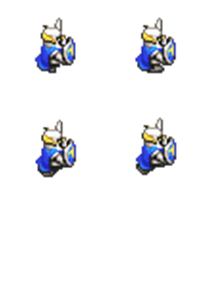
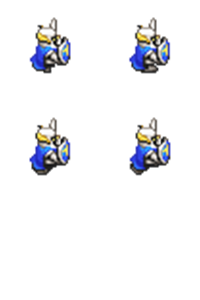
Added 15 new enemies, fixed animation, updated map
Added 7 new Horizontal and 8 new Vertical enemies, fixed "Enemy_Right_Movement", updated map

diff --git a/core/src/Play/InsideStart.java b/core/src/Play/InsideStart.java
@@ -92,10 +92,25 @@ public class InsideStart implements Screen {
     enemiesPosChange enPosChange = new enemiesPosChange();
     enemiesNegChange enNegChange = new enemiesNegChange();
     enemyH1 enH1 = new enemyH1();
+    enemyH2 enH2 = new enemyH2();
+    enemyH3 enH3 = new enemyH3();
+    enemyH4 enH4 = new enemyH4();
+    enemyH5 enH5 = new enemyH5();
+    enemyH6 enH6 = new enemyH6();
+    enemyH7 enH7 = new enemyH7();
+    enemyH8 enH8 = new enemyH8();
 
     //Enemies Vertical moves
     ArrayList<enemiesVerticalMovement> enemies2;
     enemyV1 enV1 = new enemyV1();
+    enemyV2 enV2 = new enemyV2();
+    enemyV3 enV3 = new enemyV3();
+    enemyV4 enV4 = new enemyV4();
+    enemyV5 enV5 = new enemyV5();
+    enemyV6 enV6 = new enemyV6();
+    enemyV7 enV7 = new enemyV7();
+    enemyV8 enV8 = new enemyV8();
+    enemyV9 enV9 = new enemyV9();
 
     //obstacle coordinate change
     obstacleCordinateChangeXneg negChange = new obstacleCordinateChangeXneg();
@@ -120,12 +135,29 @@ public class InsideStart implements Screen {
         enemies2 = new ArrayList<enemiesVerticalMovement>();
 
         enemies.add(new enemiesHorizontalMovement(enH1.posX, enH1.posY, enH1.limX1, enH1.limX2));
+        enemies.add(new enemiesHorizontalMovement(enH2.posX, enH2.posY, enH2.limX1, enH2.limX2));
+        enemies.add(new enemiesHorizontalMovement(enH3.posX, enH3.posY, enH3.limX1, enH3.limX2));
+        enemies.add(new enemiesHorizontalMovement(enH4.posX, enH4.posY, enH4.limX1, enH4.limX2));
+        enemies.add(new enemiesHorizontalMovement(enH5.posX, enH5.posY, enH5.limX1, enH5.limX2));
+        enemies.add(new enemiesHorizontalMovement(enH6.posX, enH6.posY, enH6.limX1, enH6.limX2));
+        enemies.add(new enemiesHorizontalMovement(enH7.posX, enH7.posY, enH7.limX1, enH7.limX2));
+        enemies.add(new enemiesHorizontalMovement(enH8.posX, enH8.posY, enH8.limX1, enH8.limX2));
+
+
         enemies2.add(new enemiesVerticalMovement(enV1.posX, enV1.posY, enV1.limY1, enV1.limY2));
+        enemies2.add(new enemiesVerticalMovement(enV2.posX, enV2.posY, enV2.limY1, enV2.limY2));
+        enemies2.add(new enemiesVerticalMovement(enV3.posX, enV3.posY, enV3.limY1, enV3.limY2));
+        enemies2.add(new enemiesVerticalMovement(enV4.posX, enV4.posY, enV4.limY1, enV4.limY2));
+        enemies2.add(new enemiesVerticalMovement(enV5.posX, enV5.posY, enV5.limY1, enV5.limY2));
+        enemies2.add(new enemiesVerticalMovement(enV6.posX, enV6.posY, enV6.limY1, enV6.limY2));
+        enemies2.add(new enemiesVerticalMovement(enV7.posX, enV7.posY, enV7.limY1, enV7.limY2));
+        enemies2.add(new enemiesVerticalMovement(enV8.posX, enV8.posY, enV8.limY1, enV8.limY2));
+        enemies2.add(new enemiesVerticalMovement(enV9.posX, enV9.posY, enV9.limY1, enV9.limY2));
     }
 
     @Override
     public void show() {
-        gameMap=new Texture("ultraFinalMap.png");
+        gameMap=new Texture("FM.png");
     }
 
     @Override

diff --git a/core/src/EnemyHorizontalMovesCollections/enemyH4.java b/core/src/EnemyHorizontalMovesCollections/enemyH4.java
@@ -1,0 +1,9 @@
+package EnemyHorizontalMovesCollections;
+
+public class enemyH4 {
+
+    public float posX=1100;
+    public float posY=654;
+    public float limX1=1078;
+    public float limX2=1290;
+}

diff --git a/core/src/EnemyHorizontalMovesCollections/enemyH6.java b/core/src/EnemyHorizontalMovesCollections/enemyH6.java
@@ -1,0 +1,8 @@
+package EnemyHorizontalMovesCollections;
+
+public class enemyH6 {
+    public float posX=1500;
+    public float posY=635;
+    public float limX1=1402;
+    public float limX2=1670;
+}

diff --git a/core/src/EnemyHorizontalMovesCollections/enemyH7.java b/core/src/EnemyHorizontalMovesCollections/enemyH7.java
@@ -1,0 +1,8 @@
+package EnemyHorizontalMovesCollections;
+
+public class enemyH7 {
+    public float posX=1600;
+    public float posY=410;
+    public float limX1=1550;
+    public float limX2=1695;
+}

diff --git a/core/src/EnemyHorizontalMovesCollections/enemyH5.java b/core/src/EnemyHorizontalMovesCollections/enemyH5.java
@@ -1,0 +1,8 @@
+package EnemyHorizontalMovesCollections;
+
+public class enemyH5 {
+    public float posX=1050;
+    public float posY=126;
+    public float limX1=946;
+    public float limX2=1126;
+}

diff --git a/core/src/EnemyHorizontalMovesCollections/enemyH8.java b/core/src/EnemyHorizontalMovesCollections/enemyH8.java
@@ -1,0 +1,8 @@
+package EnemyHorizontalMovesCollections;
+
+public class enemyH8 {
+    public float posX=1600;
+    public float posY=37;
+    public float limX1=1570;
+    public float limX2=1820;
+}

diff --git a/core/src/EnemyHorizontalMovesCollections/enemyH2.java b/core/src/EnemyHorizontalMovesCollections/enemyH2.java
@@ -1,0 +1,8 @@
+package EnemyHorizontalMovesCollections;
+
+public class enemyH2 {
+    public float posX=750;
+    public float posY=654;
+    public float limX1=582;
+    public float limX2=902;
+}

diff --git a/core/src/EnemyHorizontalMovesCollections/enemyH3.java b/core/src/EnemyHorizontalMovesCollections/enemyH3.java
@@ -1,0 +1,8 @@
+package EnemyHorizontalMovesCollections;
+
+public class enemyH3 {
+    public float posX=750;
+    public float posY=46;
+    public float limX1=582;
+    public float limX2=902;
+}

diff --git a/core/src/EnemyVerticalMovesCollections/enemyV5.java b/core/src/EnemyVerticalMovesCollections/enemyV5.java
@@ -1,0 +1,8 @@
+package EnemyVerticalMovesCollections;
+
+public class enemyV5 {
+    public float posX=1350;
+    public float posY=400;
+    public float limY1=350;
+    public float limY2=494;
+}

diff --git a/core/src/EnemyVerticalMovesCollections/enemyV7.java b/core/src/EnemyVerticalMovesCollections/enemyV7.java
@@ -1,0 +1,8 @@
+package EnemyVerticalMovesCollections;
+
+public class enemyV7 {
+    public float posX=1737;
+    public float posY=500;
+    public float limY1=434;
+    public float limY2=570;
+}

diff --git a/core/src/EnemyVerticalMovesCollections/enemyV2.java b/core/src/EnemyVerticalMovesCollections/enemyV2.java
@@ -1,0 +1,8 @@
+package EnemyVerticalMovesCollections;
+
+public class enemyV2 {
+    public float posX=354;
+    public float posY=420;
+    public float limY1=350;
+    public float limY2=486;
+}

diff --git a/core/src/EnemyVerticalMovesCollections/enemyV3.java b/core/src/EnemyVerticalMovesCollections/enemyV3.java
@@ -1,0 +1,8 @@
+package EnemyVerticalMovesCollections;
+
+public class enemyV3 {
+    public float posX=950;
+    public float posY=494;
+    public float limY1=422;
+    public float limY2=558;
+}
